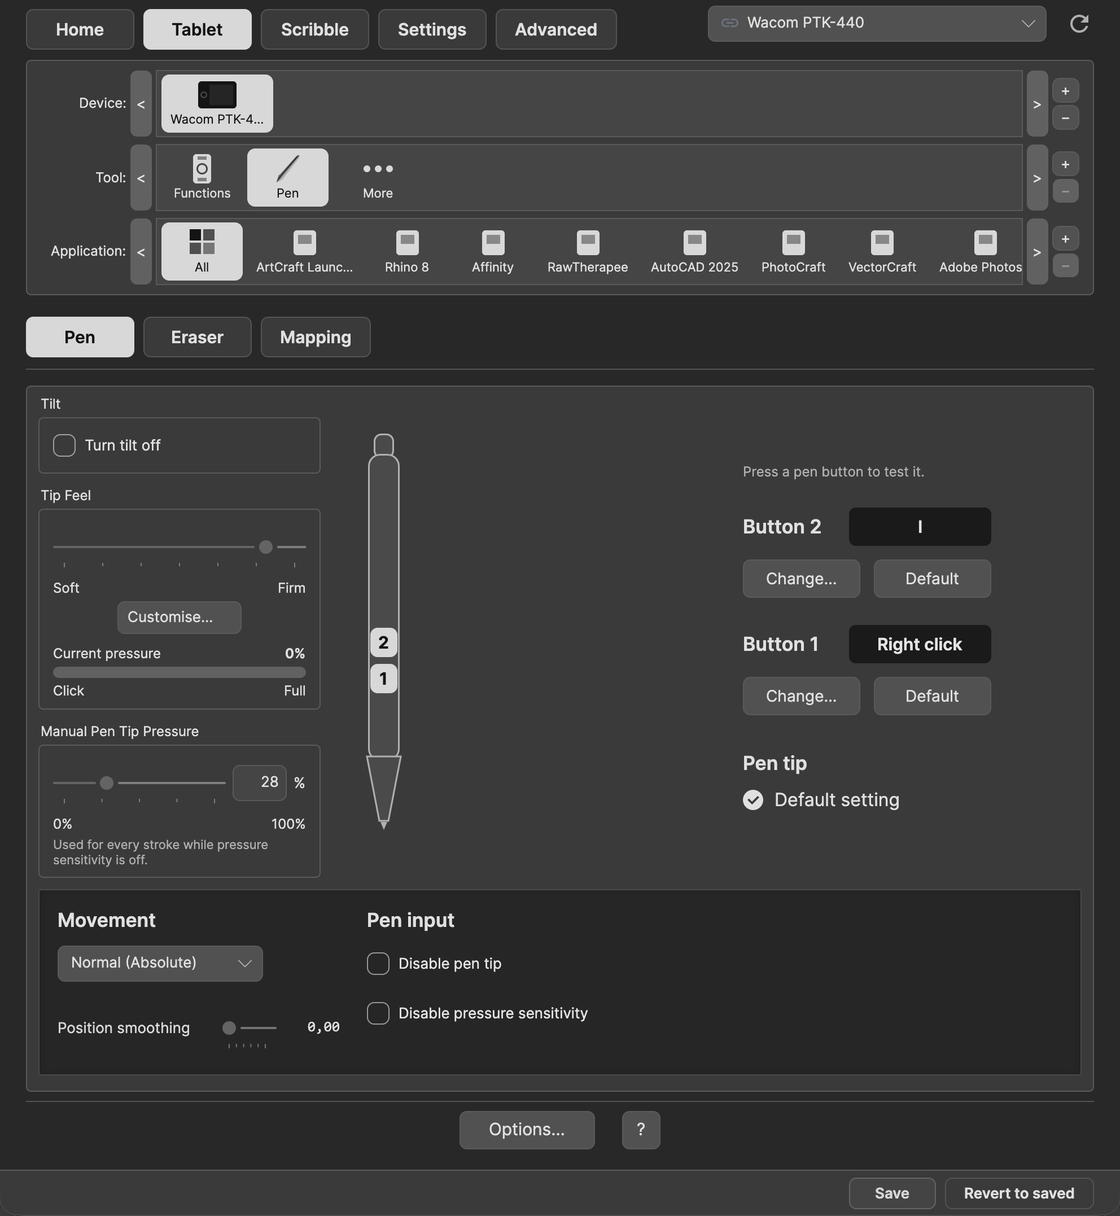
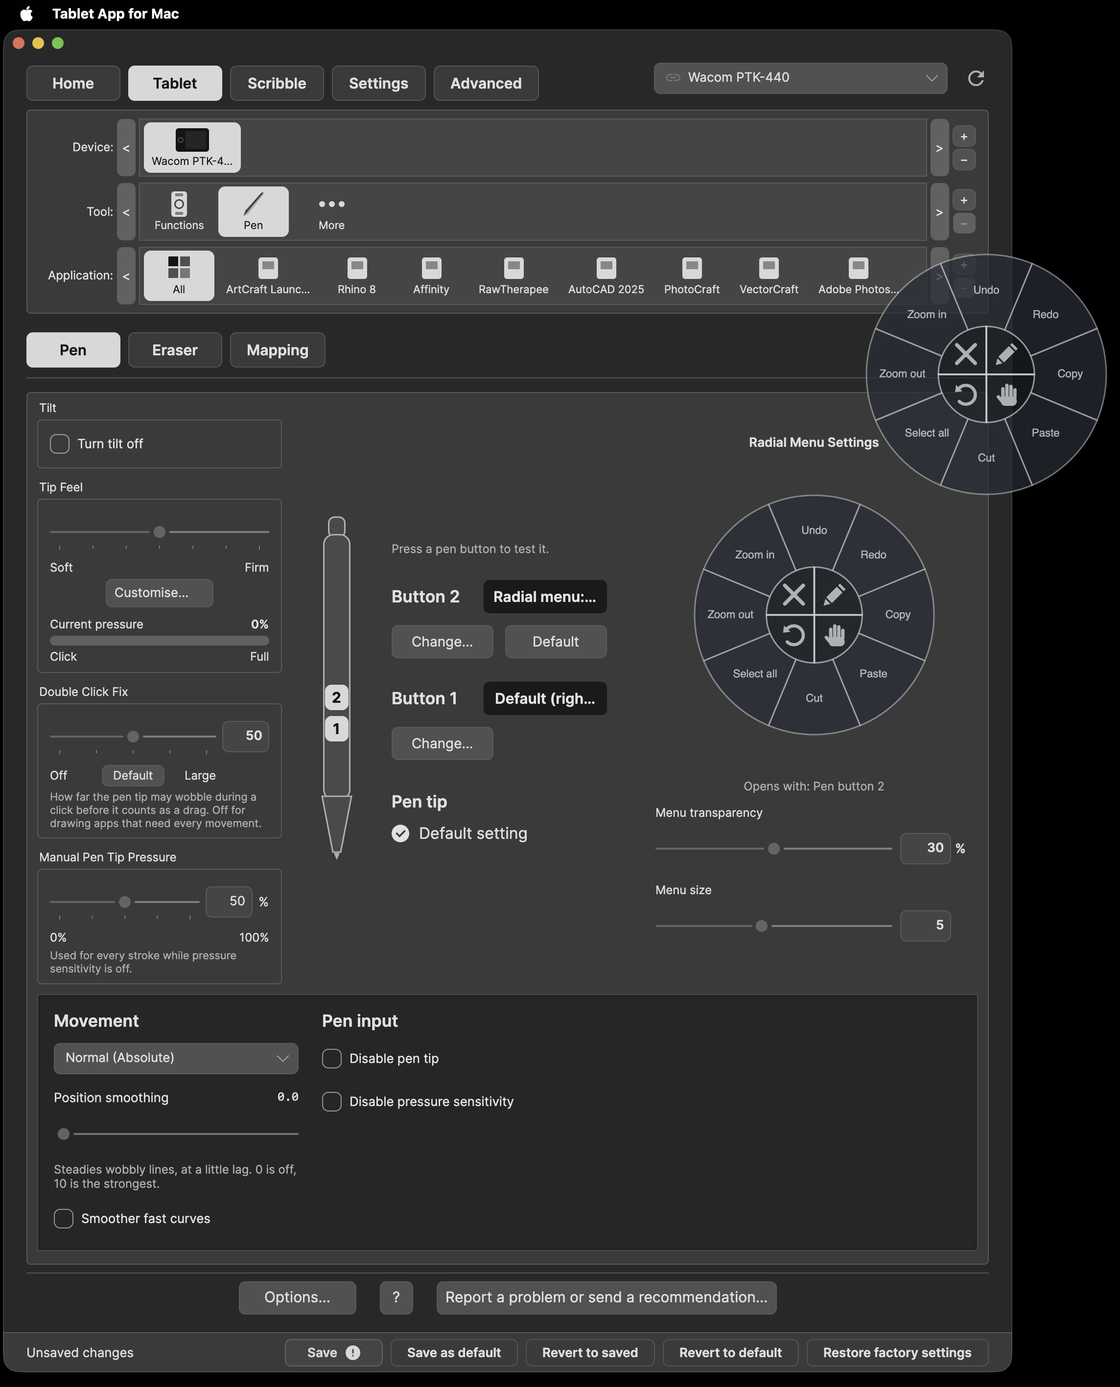
Site: Version 27 screenshots (Home, Pen with Radial Menu Settings, Scribble)
Claude-Session: https://claude.ai/code/session_01KKNef6outehRMekLFHMJUy

diff --git a/index.html b/index.html
@@ -20,12 +20,12 @@
 </ol>
 <p><strong>Tip:</strong> if the pen still doesn't move the pointer, select Tablet App for Mac in those two lists, remove it with <strong>−</strong>, add it again with <strong>+</strong>, then reopen the app. Need more help? See the <a href="help/">user manual</a>.</p></section>
 
-<figure class="slot" data-slot="02-home-overview"><picture><source type="image/webp" srcset="/tablet-app-for-mac/assets/shots/02-home-overview.webp"><img src="/tablet-app-for-mac/assets/shots/02-home-overview.png" alt="Home page of Tablet App for Mac, Version 24, with the connected tablet, You have the latest version, Check for updates now and Earlier versions" width="1200" height="773" loading="eager" decoding="async"></picture><figcaption>Home: your tablets and updates. Earlier versions… takes you back to an older version.</figcaption></figure><ul class="facts"><li>Free and open source (GPL-3.0)</li><li>No tracking or telemetry</li><li>For Apple silicon Macs</li><li>Tested on macOS 27.0.1 with an Intuos4 Small (PTK-440)</li><li><a href="/tablet-app-for-mac/tablets/">All supported Wacom tablets</a></li></ul>
+<figure class="slot" data-slot="02-home-overview"><picture><source type="image/webp" srcset="/tablet-app-for-mac/assets/shots/02-home-overview.webp"><img src="/tablet-app-for-mac/assets/shots/02-home-overview.png" alt="Home page of Tablet App for Mac, Version 27, with the connected tablet, You have the latest version, Check for updates now and Earlier versions" width="1200" height="777" loading="eager" decoding="async"></picture><figcaption>Home: your tablets and updates. Earlier versions… takes you back to an older version.</figcaption></figure><ul class="facts"><li>Free and open source (GPL-3.0)</li><li>No tracking or telemetry</li><li>For Apple silicon Macs</li><li>Tested on macOS 27.0.1 with an Intuos4 Small (PTK-440)</li><li><a href="/tablet-app-for-mac/tablets/">All supported Wacom tablets</a></li></ul>
 <p class="muted">Tested only on that system and tablet. Use at your own risk.</p>
 <h2>What is new in Version 27</h2><ul><li><strong>Radial menu transparency is real.</strong> Menu transparency now makes the menu itself see-through, so you can see your picture underneath. It goes from 0 to 60 % (default 40 %); 60 % is the most, so the slice names stay readable even over a white page. Overlapping parts of the icons no longer look brighter.</li><li><strong>Menu size from 1 to 10.</strong> Menu size has a number box you can type in, like Menu transparency, and the two boxes line up. 1 is the smallest menu and 10 the largest, the same sizes as before.</li><li><strong>An open menu follows the sliders.</strong> With the radial menu open, moving Menu transparency or Menu size changes it at once; you don't have to close it first.</li><li><strong>The Pen page picture is the real size.</strong> Radial Menu Settings on Tablet › Pen shows the menu exactly as big as the one your pen opens, with the sliders below it. Click one of the four centre icons (×, pencil, circular arrow, hand) in the picture to read what it does.</li><li><strong>Messages next to the menu.</strong> “Edit the slice you tap next” and confirmations such as “Selection copied” now appear right next to the radial menu, on a solid background that is easy to read.</li><li><strong>Pencil with the mouse.</strong> After clicking the pencil, clicking a slice with the Mac mouse opens that slice’s editor too.</li><li><strong>“Saved” where you can see it.</strong> Confirmations such as “Settings saved” appear over the app’s own window, not over whichever app was in front.</li><li><strong>Stuck mouse buttons:</strong> when the app stops or restarts the driver, the driver now lets go of any held mouse button before it quits (issue #73).</li><li><strong>Translations:</strong> the new texts are in all 8 languages, with wording fixes in Bulgarian, German, Spanish, French and Russian.</li><li><strong>Known, to be fixed in Version 28:</strong> if you open the app from the disk image and then the copy in Applications, the second one may say “Not connected to driver”. Quit every copy, then open only the one in Applications.</li></ul><h3>Version 26</h3><ul><li><strong>Radial menu.</strong> Press a pen button set to Radial menu (pen button 2 by default on a new install, after Restore factory settings or Revert to default) and an 8-slice pie opens around the pen. Tap a slice with the pen tip to run it (Undo, Redo, Copy, Paste, Cut, Select all, Zoom in, Zoom out by default); hold the button to tap several slices. It also works with the Mac mouse: click a slice, drag the edge to move the menu, close it with the centre X. The four centre buttons are Close, Edit (pencil), Restore and Move (hand). Each app can have its own menu; Menu size and Menu transparency (default 40 %) are in the editor.</li><li><strong>Radial Menu Settings on the Pen page.</strong> The radial menu picture sits between the pen drawing and Button 2 / Button 1; click it to edit the menu of the selected app. The editor fits small windows (the pie scales, then the area scrolls). While you pick a slice to edit, a hint is shown on the menu, and a short message such as “Selection copied” confirms each slice that runs. In Scribble, radial Undo and Redo act on your strokes.</li><li><strong>Touch Ring: Scroll.</strong> A ring mode can now be set to Scroll: turning the ring scrolls like a mouse wheel in every app (clockwise = down), with a Speed slider.</li><li><strong>Relative (Mouse-like) mode:</strong> click, click-and-drag and Double Click now work; a pen button set to Double Click clicks where the pointer is and no longer sends the pointer to the corner of the screen. The choice is now named “Relative (slow / no mouse-like speed-up)” with a line that explains it, and Position smoothing (0–10) is on the Pen page.</li><li><strong>Stuck mouse buttons:</strong> a left button held by the pen is now let go when the tablet is unplugged, the driver stops, you press Reset or you use Double Click, and the physical mouse left button works again after a pen button is set to Double Click (issue #73).</li><li><strong>Smoother fast curves</strong> (Pen page, Off by default) adds smooth in-between pen points, so fast curves show fewer flat pieces in apps that join points with straight lines.</li><li><strong>Pen page:</strong> Double Click Fix and a Default button now work per application. <strong>Move pen to zoom</strong> and <strong>Move pen to pan and zoom</strong> are new Scroll-tab choices for a pen button.</li><li><strong>Save as default, Revert to default and Restore factory settings</strong> sit next to Save and Revert to saved. Restoring factory settings also resets each ExpressKey and Touch Ring On/Off switch and your per-app tables.</li><li><strong>Filters tab:</strong> plugin filters such as Antichatter show Off and On and keep their choice after you quit and open the app.</li><li><strong>ExpressKeys:</strong> <strong>All buttons</strong> with Off / On, and an On/Off item in each key’s ••• menu. On an Intuos4 (cable) the ExpressKey screens show what each key does.</li><li><strong>Help when something is wrong:</strong> one <strong>Troubleshooting</strong> box in Settings (restart the driver, diagnostic report, reset permissions); the “tablet not found” page says what to try; setup says in one line why macOS asks for each permission; the diagnostic report lists the mouse and keyboard.</li><li><strong>Pen taps activate the tapped app faster</strong> (no more 1-second delay when Notification Center sat on top), the app checks for updates at every start, and a read-only old copy of the plugin is replaced when you update.</li><li><strong>Translations and manual:</strong> the texts that were still English are translated in Bulgarian, German, Spanish, French, Japanese, Russian and Chinese, and the manual covers every Version 26 feature.</li></ul>
 <figure class="slot" data-slot="34-ring-turn"><picture><source type="image/webp" srcset="/tablet-app-for-mac/assets/shots/34-ring-turn.webp"><img src="/tablet-app-for-mac/assets/shots/34-ring-turn.png" alt="Touch ring page with the finger on the ring" width="1200" height="1818" loading="eager" decoding="async"></picture><figcaption>Touch ring: the active mode is lit, its number is on the centre button, and the angle and direction show under the ring.</figcaption></figure>
-<figure class="slot" data-slot="05-pen-applications"><picture><source type="image/webp" srcset="/tablet-app-for-mac/assets/shots/05-pen-applications.webp"><img src="/tablet-app-for-mac/assets/shots/05-pen-applications.png" alt="Tablet › Pen page, with several apps in the Application row" width="1120" height="1216" loading="eager" decoding="async"></picture><figcaption>Tablet › Pen, with per-app settings: add apps to the Application row with +. Each app keeps its own settings; All other covers the rest.</figcaption></figure>
-<figure class="slot" data-slot="63-scribble-draw"><picture><source type="image/webp" srcset="/tablet-app-for-mac/assets/shots/63-scribble-draw.webp"><img src="/tablet-app-for-mac/assets/shots/63-scribble-draw.png" alt="Scribble canvas with pen strokes" width="1200" height="776" loading="eager" decoding="async"></picture><figcaption>Scribble: draw to check pressure, with a precise crosshair cursor.</figcaption></figure>
+<figure class="slot" data-slot="05-pen-applications"><picture><source type="image/webp" srcset="/tablet-app-for-mac/assets/shots/05-pen-applications.webp"><img src="/tablet-app-for-mac/assets/shots/05-pen-applications.png" alt="Tablet › Pen page in Version 27: the Radial Menu Settings picture at the real size of the menu, the open radial menu beside it, and several apps in the Application row" width="1120" height="1387" loading="eager" decoding="async"></picture><figcaption>Tablet › Pen, with per-app settings (add apps to the Application row with +) and Radial Menu Settings: the picture is the real size of the menu your pen opens.</figcaption></figure>
+<figure class="slot" data-slot="63-scribble-draw"><picture><source type="image/webp" srcset="/tablet-app-for-mac/assets/shots/63-scribble-draw.webp"><img src="/tablet-app-for-mac/assets/shots/63-scribble-draw.png" alt="Scribble canvas with pen strokes and the see-through radial menu over them" width="1200" height="972" loading="eager" decoding="async"></picture><figcaption>Scribble: draw to check pressure, with a precise crosshair cursor. The radial menu stays see-through over your strokes.</figcaption></figure>
 <h2 id="feedback">Feedback</h2><p>Found a problem, or have an idea? Tell us, and add screenshots if you can: they help a lot.</p><div class="dlrow"><a class="btn" href="https://github.com/DigitalGroceries/tablet-app-for-mac/issues/new/choose">Report on GitHub</a><a class="btn" href="https://www.dropbox.com/request/9k5b0u782t79plarauv9">Feedback without a GitHub account</a></div><p>The upload page asks for your name and email (Dropbox's rule) — only the Tablet App for Mac team sees them, and no Dropbox account is needed.</p><h2>Support</h2><div class="tip"><picture><source type="image/webp" srcset="/tablet-app-for-mac/assets/support/coffee-plain-16x9-480.webp 480w, /tablet-app-for-mac/assets/support/coffee-plain-16x9-800.webp 800w, /tablet-app-for-mac/assets/support/coffee-plain-16x9-1200.webp 1200w" sizes="(min-width:700px) 340px, 100vw"><img class="coffee small" src="/tablet-app-for-mac/assets/support/coffee-plain-16x9-800.jpg" srcset="/tablet-app-for-mac/assets/support/coffee-plain-16x9-480.jpg 480w, /tablet-app-for-mac/assets/support/coffee-plain-16x9-800.jpg 800w, /tablet-app-for-mac/assets/support/coffee-plain-16x9-1200.jpg 1200w" sizes="(min-width:700px) 340px, 100vw" alt="A guitar and a cup of coffee" width="1280" height="720" loading="eager" decoding="async"></picture><div><p>If you'd like to support future updates, you can <a href="https://digitalgroceries.github.io/tablet-app-for-mac/support/">buy me a coffee</a> with PayPal, Ko-fi, Bitcoin or Monero.</p></div></div><h2>Requirements</h2><ul><li>A Mac with Apple silicon.</li><li>macOS 15 or later.</li><li>The tablet driver, built on OpenTabletDriver (included).</li><li>Input Monitoring and Accessibility permissions (Accessibility is called Device Control and Data Access on macOS 27).</li><li>Uninstall the Wacom driver first, as both can&#39;t run at once.</li></ul>
 <h2>For developers</h2><div class="grid"><div class="card"><h3><a href="releases/">Releases</a></h3><p class="muted">Every build and what changed.</p></div>
 <div class="card"><h3><a href="help/">Help</a></h3><p class="muted">The user manual.</p></div>
